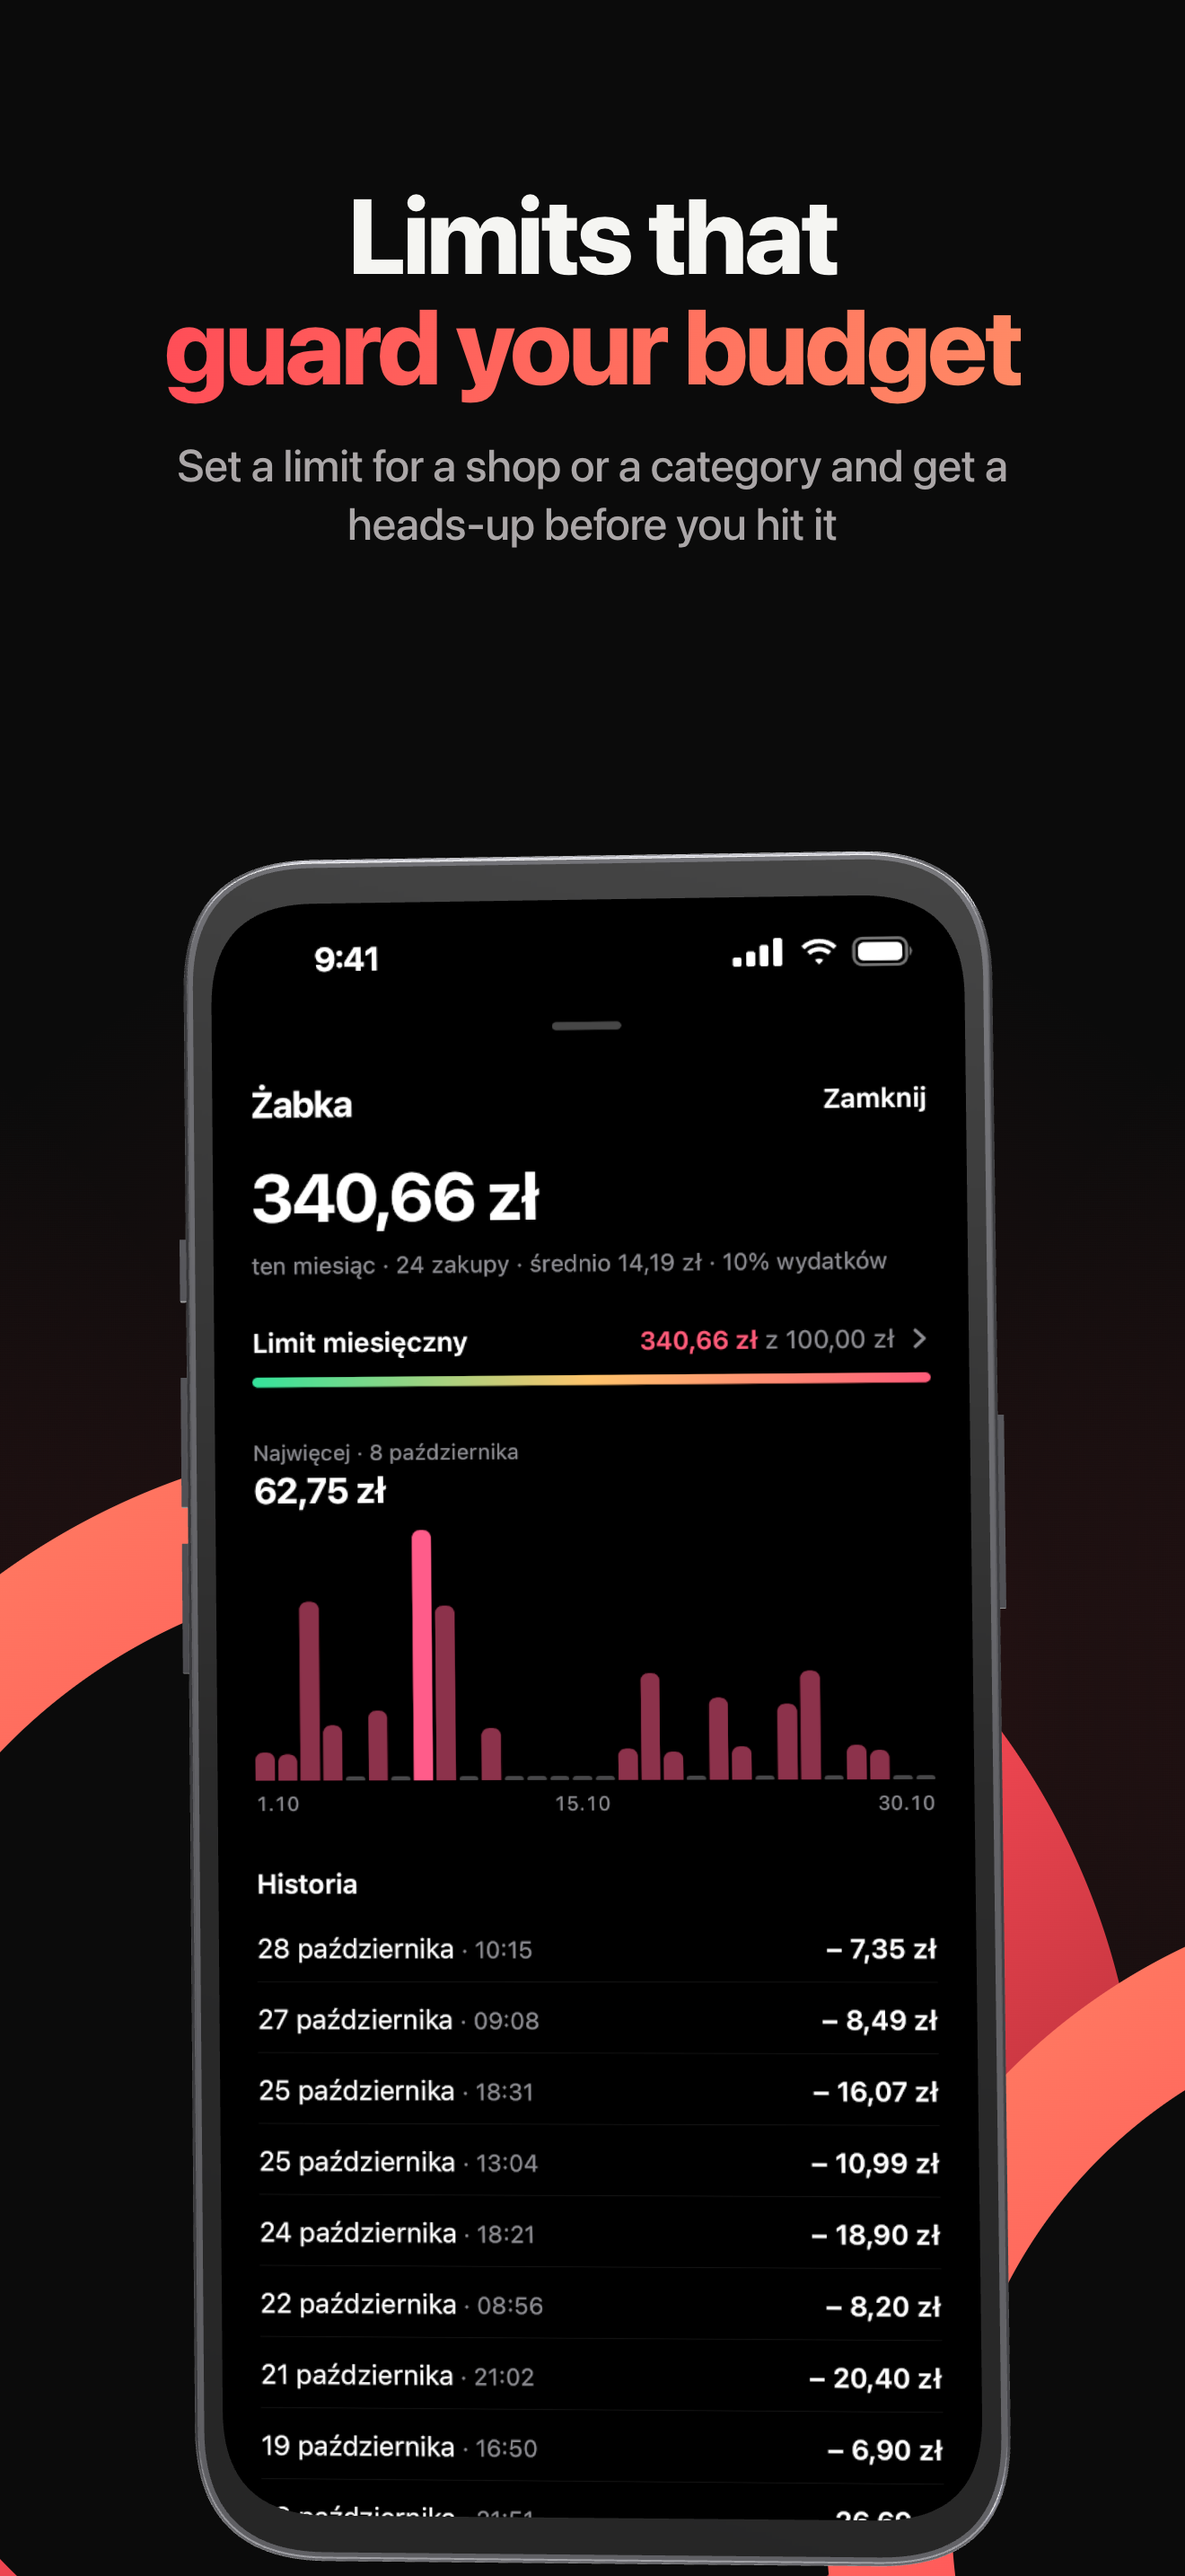
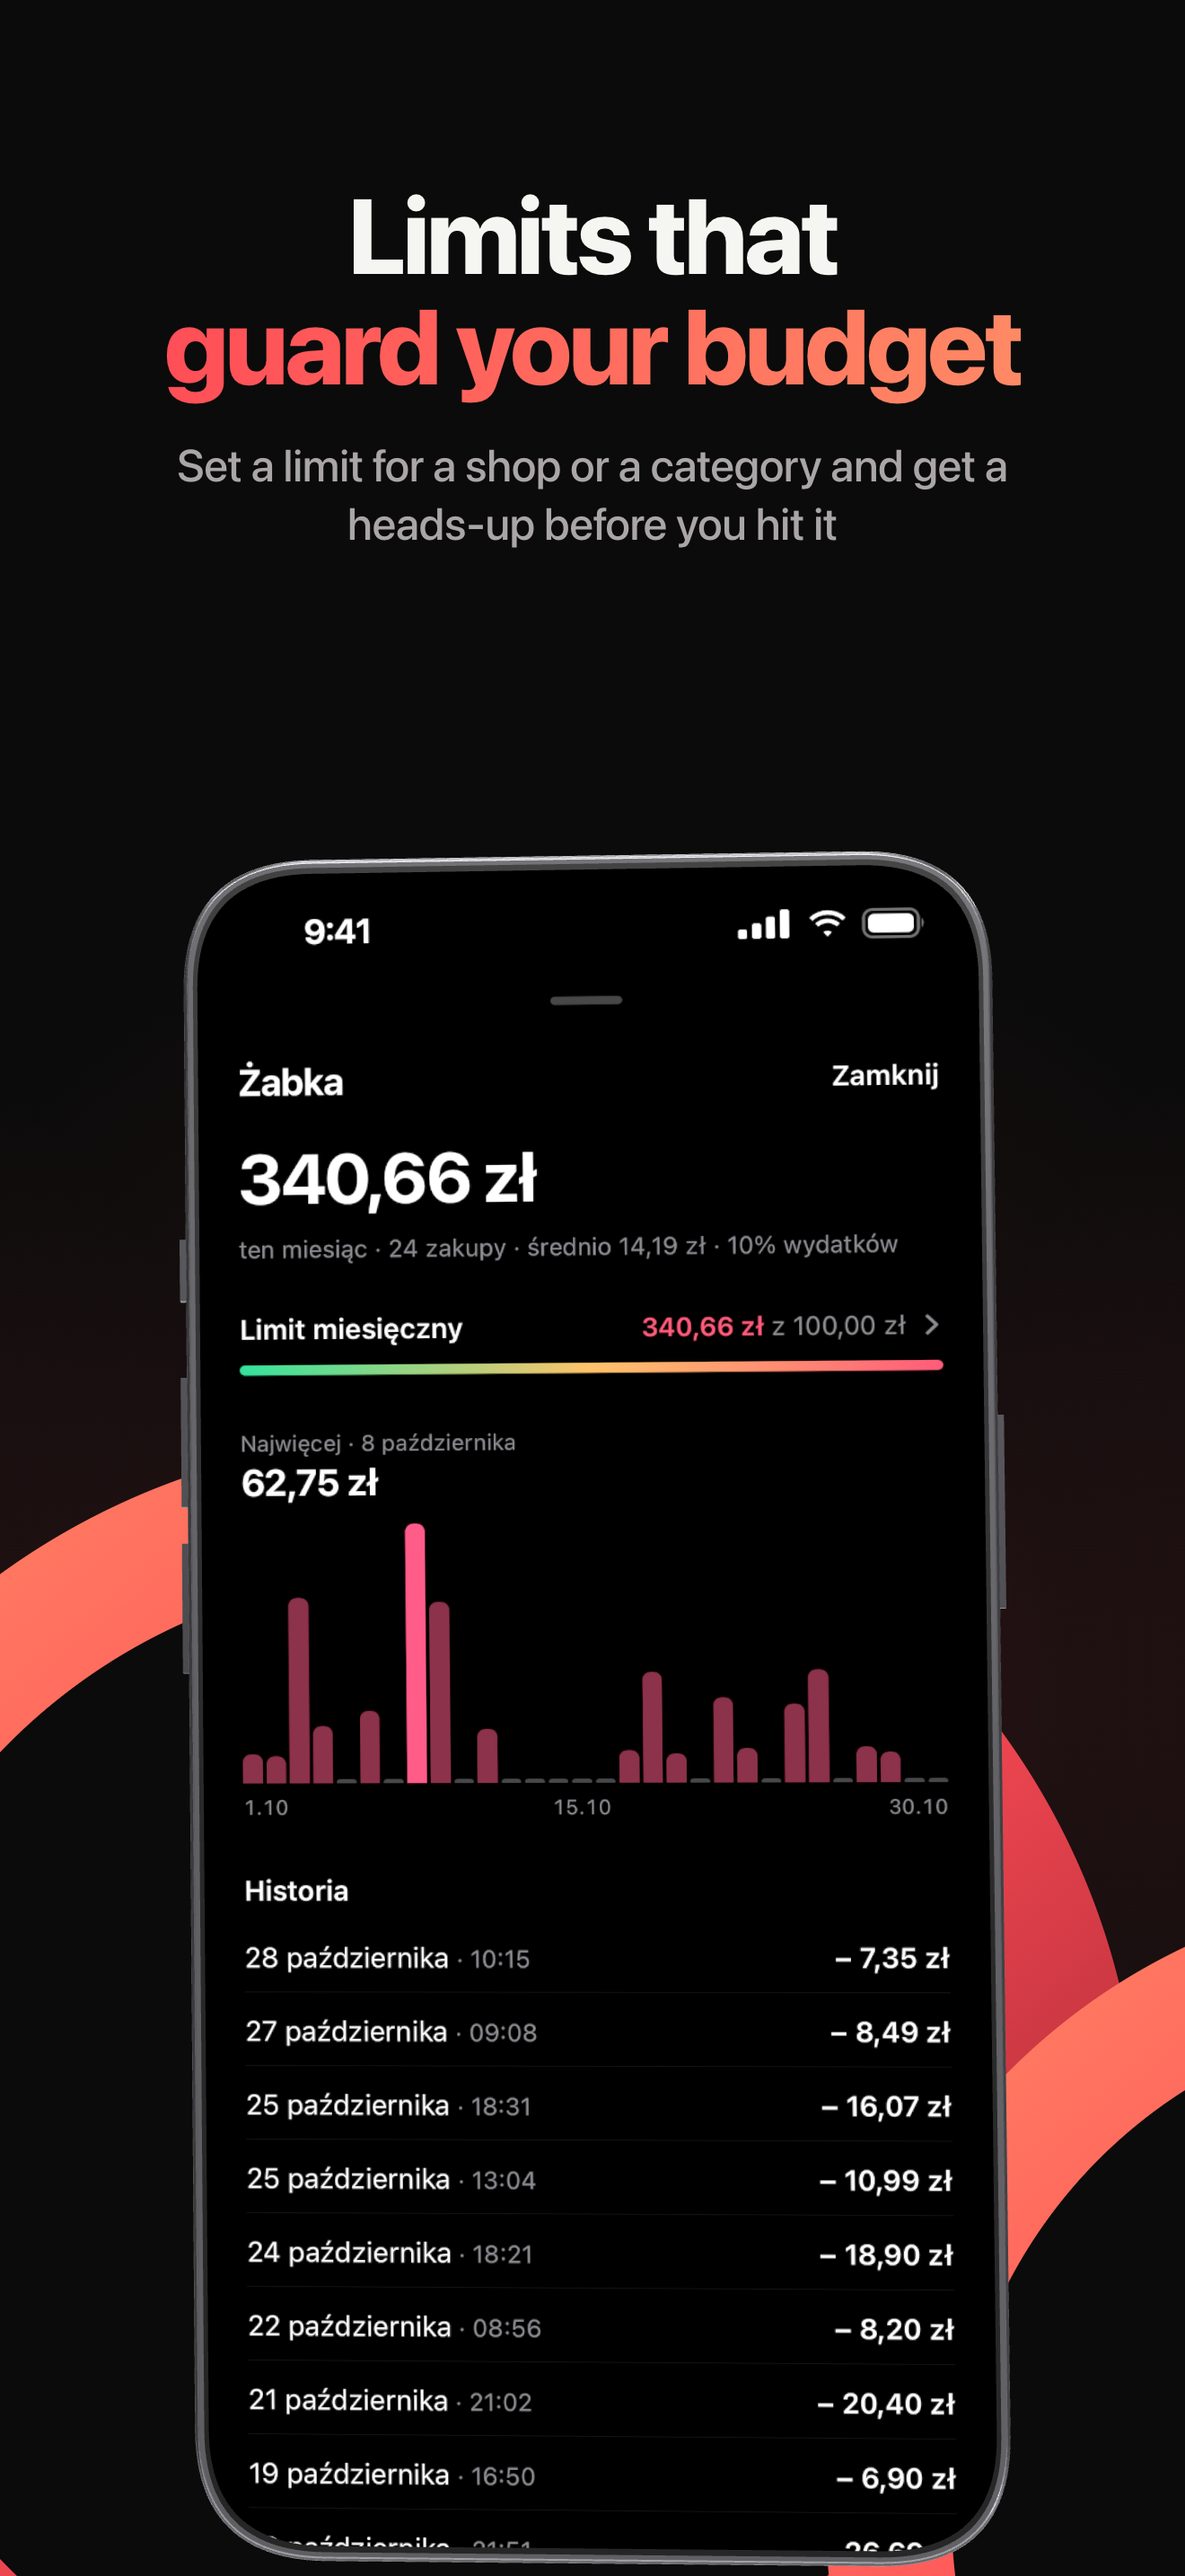
docs: make the phone screens in the App Store screenshots fill the frame

Changed region(s): [[0.1553, 0.3103, 0.8386, 0.993], [0.4659, 0.6827, 0.528, 0.7137], [0.528, 0.6517, 0.5591, 0.6827]]

diff --git a/app-store/screenshots/index.html b/app-store/screenshots/index.html
@@ -459,7 +459,7 @@
 
   const bodyWidth = 2.55;
   const bodyHeight = 5.47;
-  const screenWidth = 2.4;
+  const screenWidth = 2.49;
   const screenHeight = (screenWidth * 2556) / 1179;
 
   const renderer = new WebGLRenderer({ canvas: document.getElementById('scene'), alpha: true, antialias: true, preserveDrawingBuffer: true });
@@ -512,7 +512,7 @@
     glass.position.z = 0.214;
     device.add(glass);
     const screen = new Mesh(
-      mappedShapeGeometry(screenWidth, screenHeight, 0.33),
+      mappedShapeGeometry(screenWidth, screenHeight, 0.37),
       new MeshBasicMaterial({ map: texture, toneMapped: false }),
     );
     screen.position.z = 0.24;
